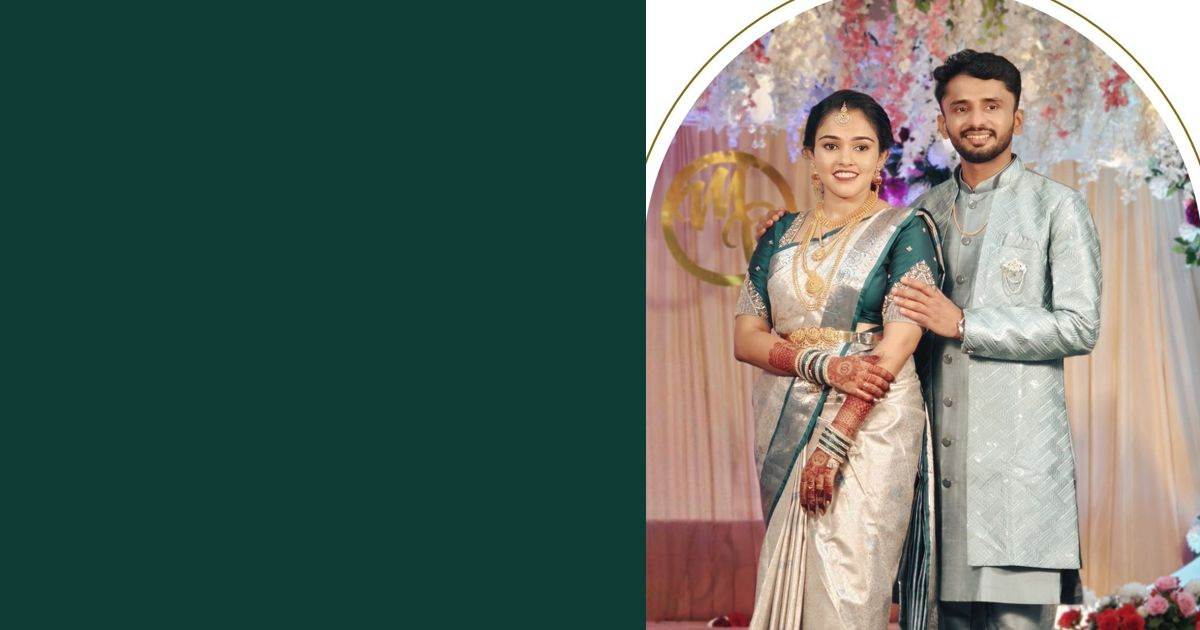
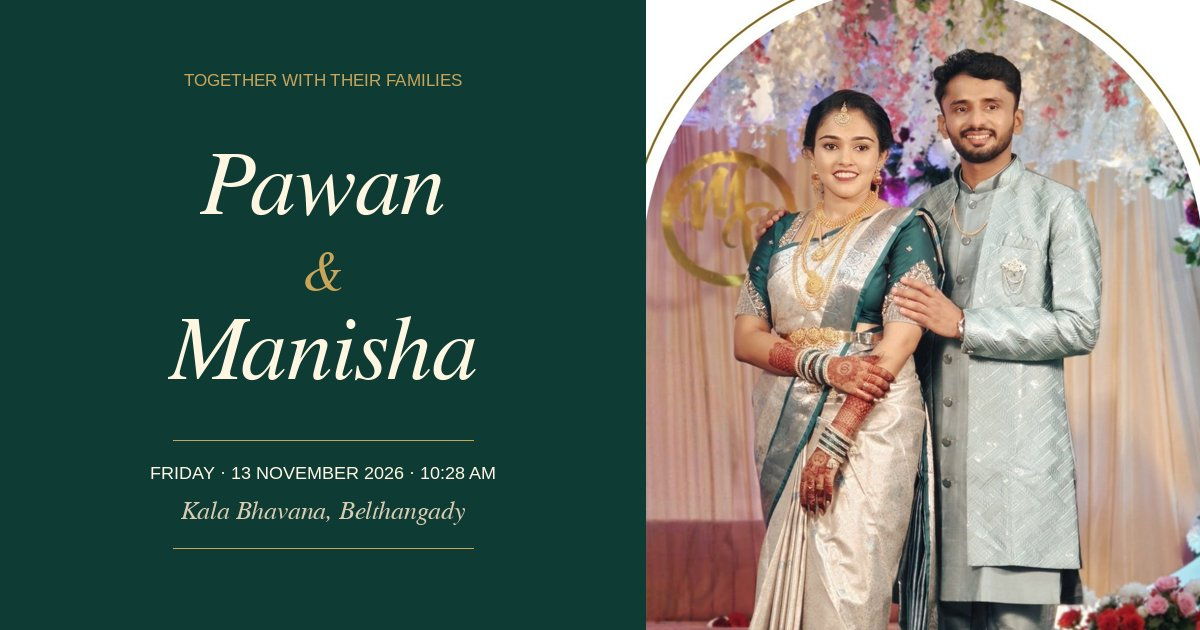
Prepare site for GitHub Pages
Add .nojekyll, absolute share-preview URLs, a share image with names and
date, and Pages setup steps in the README.

Claude-Session: https://claude.ai/code/session_01DUwJvU5z5tskyMdFUro9iy

diff --git a/index.html b/index.html
@@ -7,7 +7,12 @@
 <meta name="description" content="Dr. Pawan Kumar B weds Dr. Manisha M · Friday, 13 November 2026, 10:28 AM · Sri Dharmasthala Manjunatha Swamy Kala Bhavana, Belthangady">
 <meta property="og:title" content="Pawan &amp; Manisha · Shubha Vivaha">
 <meta property="og:description" content="Friday, 13 November 2026 · 10:28 AM · Kala Bhavana, Belthangady. Your blessings are our only gift.">
-<meta property="og:image" content="assets/img/og.jpg">
+<meta property="og:type" content="website">
+<meta property="og:url" content="https://pawankumar1901-netizen.github.io/Marriage-/">
+<meta property="og:image" content="https://pawankumar1901-netizen.github.io/Marriage-/assets/img/og.jpg">
+<meta property="og:image:width" content="1200">
+<meta property="og:image:height" content="630">
+<meta name="twitter:card" content="summary_large_image">
 <meta name="theme-color" content="#0B2A26">
 <link rel="preconnect" href="https://fonts.googleapis.com">
 <link rel="preconnect" href="https://fonts.gstatic.com" crossorigin>

diff --git a/README.md b/README.md
@@ -22,4 +22,8 @@ python3 -m http.server 8000
 ```
 
 ## Publish with GitHub Pages
-Settings → Pages → Deploy from a branch → pick this branch and `/ (root)`.
+1. Settings → General → Danger Zone → **Change visibility → Public**. Free GitHub accounts can only host Pages from public repos.
+2. Settings → **Pages** → Source: **Deploy from a branch** → Branch: `claude/animated-marriage-website-gvogtb`, folder `/ (root)` → Save.
+3. After about a minute the site is live at **https://pawankumar1901-netizen.github.io/Marriage-/**
+
+The WhatsApp/social preview image (`assets/img/og.jpg`) is linked using that address.
